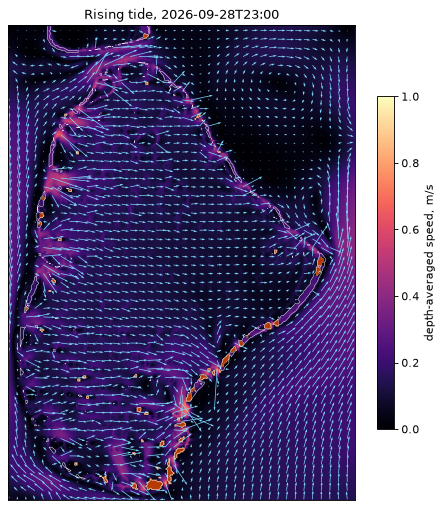
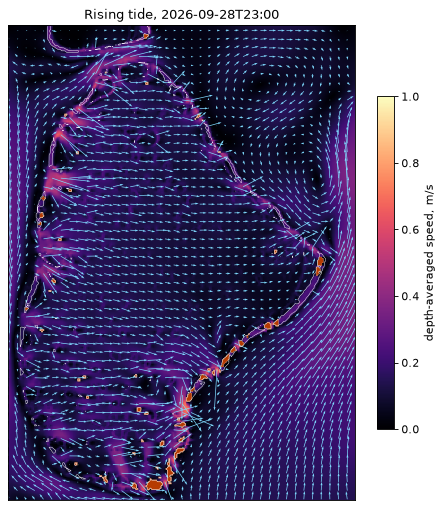
research(sim): run a full spring-neap cycle (18 Sep - 2 Oct)
Channels agree 73 % of hours. North Malé's east rim now turns with the west rims;
South Malé's east rim and North Malé's north-east corner still disagree, and
agreement is lower at springs than at neaps.

Claude-Session: https://claude.ai/code/session_01JkBozE62Lk21Qupp672jXq

diff --git a/sim/domain.py b/sim/domain.py
@@ -20,8 +20,9 @@ LAND_ZOOM = 12
 # Atolls in the domain (sites.json atollId).
 ATOLLS = ("north-male", "south-male")
 
-# The simulated window (Maldives dates, inclusive): the 10 days up to the run, from Open-Meteo (marine.py).
-WINDOW = ("2026-09-23", "2026-10-02")
+# The simulated window (Maldives dates, inclusive): the 15 days up to the run, a full spring-neap cycle, from
+# Open-Meteo (marine.py).
+WINDOW = ("2026-09-18", "2026-10-02")
 # The first day is spin-up: the simulation starts at rest and the lagoons take most of a day to settle.
 SPINUP_H = 24
 

diff --git a/sim/README.md b/sim/README.md
@@ -1,7 +1,7 @@
 # Shallow-water simulation of North and South Malé (research prototype)
 
 A depth-averaged hydrodynamic simulation of North Malé, South Malé, Vaadhoo Kandu between them and the sea round
-them, with the islands and shallow reefs in it, run over 23 Sep – 2 Oct 2026 on live Open-Meteo levels and compared
+them, with the islands and shallow reefs in it, run over 18 Sep – 2 Oct 2026 (a spring–neap cycle) on live Open-Meteo levels and compared
 site by site with the forecast the app showed for the same ocean. It is offline research: nothing here feeds the
 forecast, the model version is unchanged, and CI does not run it.
 
@@ -23,14 +23,14 @@ strait model. One domain covers 110 sites.
 - **Solver** (`swe.py`): the nonlinear shallow-water equations on a C-grid, explicit (1.5 s step), upwind
   advection, Manning friction (n = 0.035 on reef crest and flats, 0.025 elsewhere), Coriolis, wetting and drying of
   reef flats, islands as walls. Numba, about 12 s per simulated hour on 4 cores.
-- **Forcing** (`forcing.py`, `marine.py`): Open-Meteo sea level over `domain.WINDOW` (10 days, 23 Sep – 2 Oct),
+- **Forcing** (`forcing.py`, `marine.py`): Open-Meteo sea level over `domain.WINDOW` (15 days, 18 Sep – 2 Oct),
   fetched the way the app fetches it (nearest sea cell, Maldives wall clock) and cached in `sim/cache/marine/`.
   - Every ocean-model cell (1/12°) along each open edge, 16 a side from the south wall to the north wall: the inner
     sea at 73.21° E and the open ocean at 73.79° E. The solver interpolates each edge's level in latitude, so it
     varies along the edge as the ocean model's does (up to 0.11–0.12 m from end to end).
   - The inner sea runs up to ±0.17 m off the ocean through the tide (std 0.07 m), the two within an hour of each other:
     the tide crosses the double chain of atolls with a lag, and that head across the chain is the second driver.
-    The 10-day mean head is +0.6 cm (inner sea higher).
+    The 15-day mean head is +0.8 cm (inner sea higher).
   - The north and south edges are walls drawn through Gaafaru and Vaavu, so that head drops across the atolls and
     the gaps between them instead of running round the domain's ends.
   - Only levels are imposed; every current inside comes from the levels, the depths and friction. The ocean model's
@@ -41,54 +41,61 @@ strait model. One domain covers 110 sites.
   stubbed by the same window's live series, each point the forecast asks for (seaward sample points, the atoll
   ring points) getting its own ocean-model cell, so the forecast's head term sees what it would have seen live. The
   simulated current at the nearest open-water cell to each pin is projected on the axis the app shows for the site.
-  Hours: 24 Sep 00:00 to 2 Oct 11:00 (the first day is spin-up; the forecast has no 25-hour mean in its last 12 h).
-- **Run time:** about 12 s a simulated hour on 4 cores, so 10 days take 50 minutes. `swe.py` checkpoints every
+  Hours: 19 Sep 00:00 to 2 Oct 11:00 (the first day is spin-up; the forecast has no 25-hour mean in its last 12 h).
+- **Run time:** about 12 s a simulated hour on 4 cores, so 15 days take 75 minutes. `swe.py` checkpoints every
   simulated day and resumes from it, for longer windows.
 
-## Findings (chain case, 23 Sep – 2 Oct, live levels)
+## Findings (chain case, 18 Sep – 2 Oct, live levels)
+
+Fifteen days cover a full spring–neap cycle: neaps on 19–22 Sep (ocean tide range 0.25–0.35 m a day), springs on
+27 Sep – 1 Oct (0.9–1.06 m).
 
 | Kind | Sites | Direction agrees* | Correlation | Best lag (h)† | Sim p95 speed | Sim hours in | Forecast hours in |
 |---|---|---|---|---|---|---|---|
-| Channel | 44 | 68 % | 0.30 | −2 | 0.36 m/s | 42 % | 27 % |
-| Along the reef | 25 | 73 % | 0.35 | +1 | 0.13 m/s | 36 % | 56 % |
-| Lagoon | 34 | 63 % | 0.09 | −1 | 0.24 m/s | 57 % | 81 % |
-| Strait wall | 7 | 71 % | 0.47 | −2 | 0.36 m/s | 62 % | 90 % |
+| Channel | 44 | 73 % | 0.42 | −2 | 0.35 m/s | 37 % | 24 % |
+| Along the reef | 25 | 77 % | 0.20 | +1 | 0.13 m/s | 32 % | 50 % |
+| Lagoon | 34 | 69 % | 0.18 | −2 | 0.22 m/s | 63 % | 87 % |
+| Strait wall | 7 | 71 % | 0.40 | −2 | 0.34 m/s | 66 % | 94 % |
 
 \* Of the hours both call non-slack. † Median over sites; negative means the simulation turns that many hours
 *after* the forecast (the forecast at hour t lines up best with the simulation at t + |lag|). The first write-up of
-this table read the sign the other way round. Full per-site output: `sim/out/chain/compare.txt` after a run.
+this table read the sign the other way round. The semidiurnal tide repeats every 12.4 h, so a lag near ±6 h is close
+to half a tide either way. Full per-site output: `sim/out/chain/compare.txt` after a run.
 
-The first run (25–30 Sep, cached series, one inner-sea point off North Ari) gave channels 58 %, correlation 0.03,
-lag −4 h. With the whole of both edges forced from live levels, agreement is higher and the lag shorter, but the
-pattern holds. The semidiurnal tide repeats every 12.4 h, so a lag near ±6 h is close to half a tide either way.
+How the picture moved with the forcing and the window:
 
-1. **The forecast turns before the simulation, by more on the east rims.** West-rim channels (Kuda, Bodu Hithi,
-   Ziyaarai, Madi Thila; Vaagili, Ran Faru, Ramm Faru, Lhohi, Rannalhi) agree 66–94 % of hours and correlate
-   0.8–0.9 with the simulation 0–2 h behind the forecast. East-rim channels (HP Reef, Furana, Kandooma, Embudhoo,
-   Cocoa, Guraidhoo, Dhigu, Medhu Faru) agree 57–72 % and correlate 0.55–0.85 with the simulation 3–6 h behind.
-   This was the finding that rested on one inner-sea point; with 16 points a side it stands.
-2. **The forecast holds the east rims outgoing.** It calls South Malé's east-rim channels incoming only 11–17 % of
-   hours and North Malé's 9–33 %; the simulation runs them in 30–45 %. The head term (τ = 0.25 h) outweighs the tide
-   there, as in the first run.
-3. **North Malé's north-east corner runs the other way round.** Furana South, Club Med Corner, Vah Kandu, Kagi,
-   Prisca, Miyaru and Helengeli correlate −0.6 to +0.2 at lag 0 and 0.6–0.8 only 4–5 h apart: near half a tide
-   out. These face the gap to Gaafaru, where the varying edge level now drives a flow along the chain.
-4. **Strait walls agree 71 %, the simulation about 2 h behind the forecast.** The forecast makes them east 85–91 % of hours; the simulation 38–77 %.
-   Its speeds (p95 0.2–0.5 m/s) stay below the owner's 0.8–1.2 m/s.
-5. **Walls along the reef move a little more** (agree 73 %, p95 0.13 m/s): the edge level now varies along the chain,
-   which gives a weak along-chain stream, still far short of the real one.
-6. **Lagoon sites agree least** (63 %, correlation 0.09): the forecast runs them incoming 81 % of hours, the
-   simulation 57 %.
+| Run | Forcing | Channels agree | Correlation | Lag |
+|---|---|---|---|---|
+| 25–30 Sep | cached, one inner-sea point | 58 % | 0.03 | −4 h |
+| 23 Sep – 2 Oct | live, 16 points a side | 68 % | 0.30 | −2 h |
+| 18 Sep – 2 Oct | live, 16 points a side | 73 % | 0.42 | −2 h |
+
+1. **Across most of both atolls the simulation turns about 2 h after the forecast.** West-rim channels (Kuda, Bodu
+   Hithi, Ziyaarai, Madi Thila; Vaagili, Ran Faru, Ramm Faru, Lhohi, Rannalhi) agree 68–96 % of hours and correlate
+   0.7–0.85 at that lag. North Malé's east rim (HP Reef, Furana Thila and North, Lankan Caves) now does the same
+   (78–81 %, lag −2 h); in the 10-day run it looked 3 h later.
+2. **South Malé's east rim is the clearest disagreement.** Kandooma, Embudhoo, Dhigu, Medhu Faru, Cocoa, Guraidhoo,
+   Sundune and Lhosfushi: the simulation runs them incoming 34–38 % of hours, the forecast 7–14 %. They agree
+   66–79 %, and the simulation turns 3–5 h after the forecast. The head term (τ = 0.25 h) holds them outgoing.
+3. **North Malé's north-east corner runs nearly half a tide out.** Furana South, Club Med Corner, Vah Kandu, Kagi
+   Kandu, Helengeli, Miyaru and Prisca correlate −0.5 to +0.3 at lag 0 and 0.5–0.75 only 3–5 h the other way.
+   They face the gap to Gaafaru, where the edge level varies along the chain. Held across both runs.
+4. **The forecast agrees better at neaps than at springs.** Channels agree 80 % of hours over 18–25 Sep (neaps) and
+   66 % over 26 Sep – 2 Oct (springs): the disagreements above are larger when the current is strongest.
+5. **Strait walls agree 71 %, the simulation about 2 h behind.** The forecast makes them east 91–95 % of hours, the
+   simulation 43–77 %. Its speeds (p95 0.2–0.5 m/s) stay below the owner's 0.8–1.2 m/s.
+6. **Walls along the reef and lagoon sites** agree 77 % and 69 %, but correlate only 0.2: the simulation has no real
+   along-chain stream (p95 0.13 m/s at walls), and the forecast runs the lagoon incoming 87 % of hours against 63 %.
 7. **Benchmark fixtures:** the 10 scored curated reports at Kandooma Thila and Embudhoo Express on 27 Sep all disagree
-   with the simulation, as in the first run. They are scenarios written from the tide, not dives.
+   with the simulation. They are scenarios written from the tide, not dives.
 
 ![flood](figures/flow-flood.png) ![sites](figures/sites.png)
 
 ## How far to trust it
 
 - **No ground truth.** Both models are judged against each other. Real dive reports are what decide.
-- **Ten days is under a spring–neap cycle** (about 15 days). The timing comparison holds across tides; speeds
-  reflect this stretch only.
+- **One spring–neap cycle.** Fifteen days in the SW monsoon; a 90-day run would show whether the lags hold
+  through the season.
 - **The forcing is the ocean model's.** Levels from an 8 km model that does not resolve the atolls. If it gets the
   lag across the chain wrong, the east-rim phase moves with it.
 - **The rim's openings are guessed.** Gaps between mapped reef are held 25 m deep. Speeds scale with the opening
@@ -98,8 +105,7 @@ pattern holds. The semidiurnal tide repeats every 12.4 h, so a lag near ±6 h is
 
 ## What it could become
 
-- A longer window (15 days for a spring–neap cycle, 90 for a season) is a change to `domain.WINDOW`; about 12 s a
-  simulated hour.
+- A longer window (90 days for a season) is a change to `domain.WINDOW`; about 12 s a simulated hour.
 - Fit, per site, the simulated along-axis current to the ocean slope and the west–east head (a gain and a lag each).
   That would give the live model per-site constants grounded in physics without running a simulation in the app.
 - Finer nests (50 m) round the dive-heavy rims, with sill depths from charts or the owner.
@@ -111,7 +117,7 @@ python3 -m pip install -r sim/requirements.txt
 python3 sim/fetch_terrain.py              # 113 tiles into sim/cache/ (gitignored)
 python3 sim/grid.py                       # sim/out/grid.npz
 python3 sim/forcing.py                    # fetches the edge levels into sim/cache/marine/
-python3 sim/swe.py && python3 sim/export.py    # about 50 min for 10 days
+python3 sim/swe.py && python3 sim/export.py    # about 75 min for 15 days
 npm run sim-compare                       # prints the tables, writes sim/out/chain/compare.json; fetches the
                                           # forecast's own sample points with curl if not cached
 python3 sim/plot.py                       # sim/figures/
